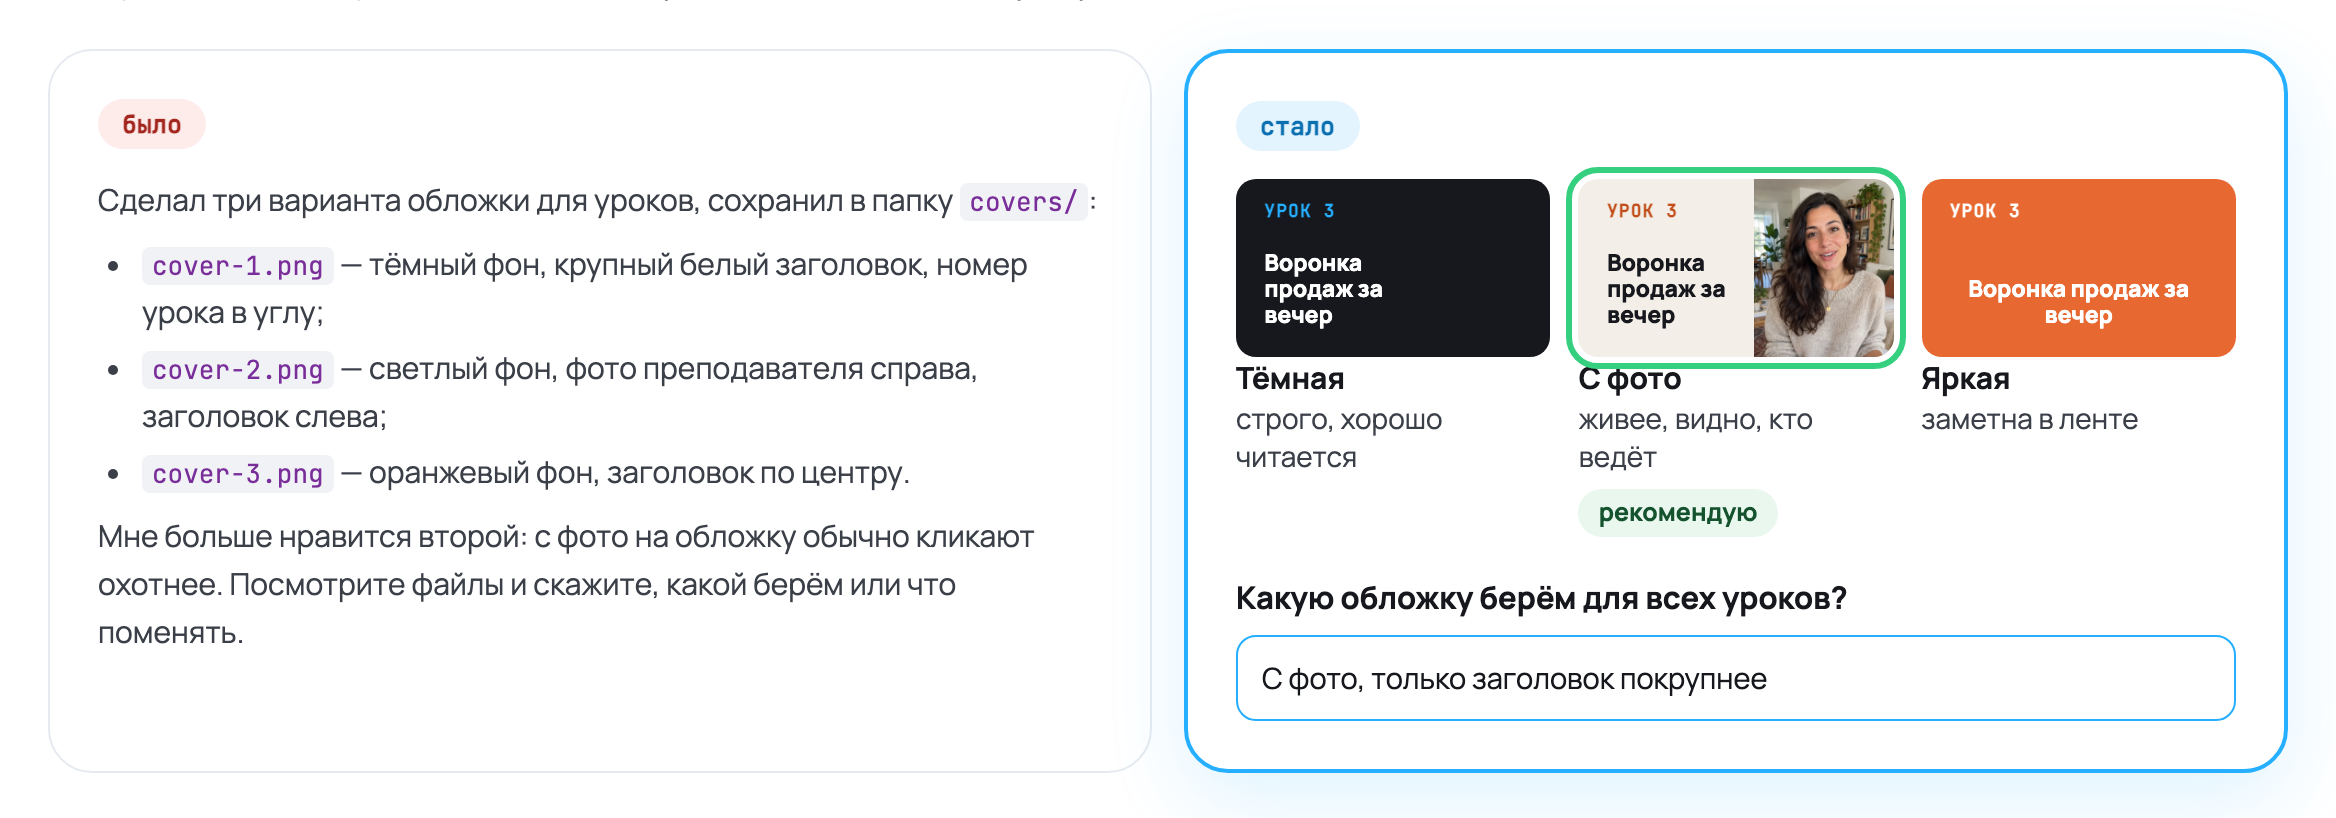
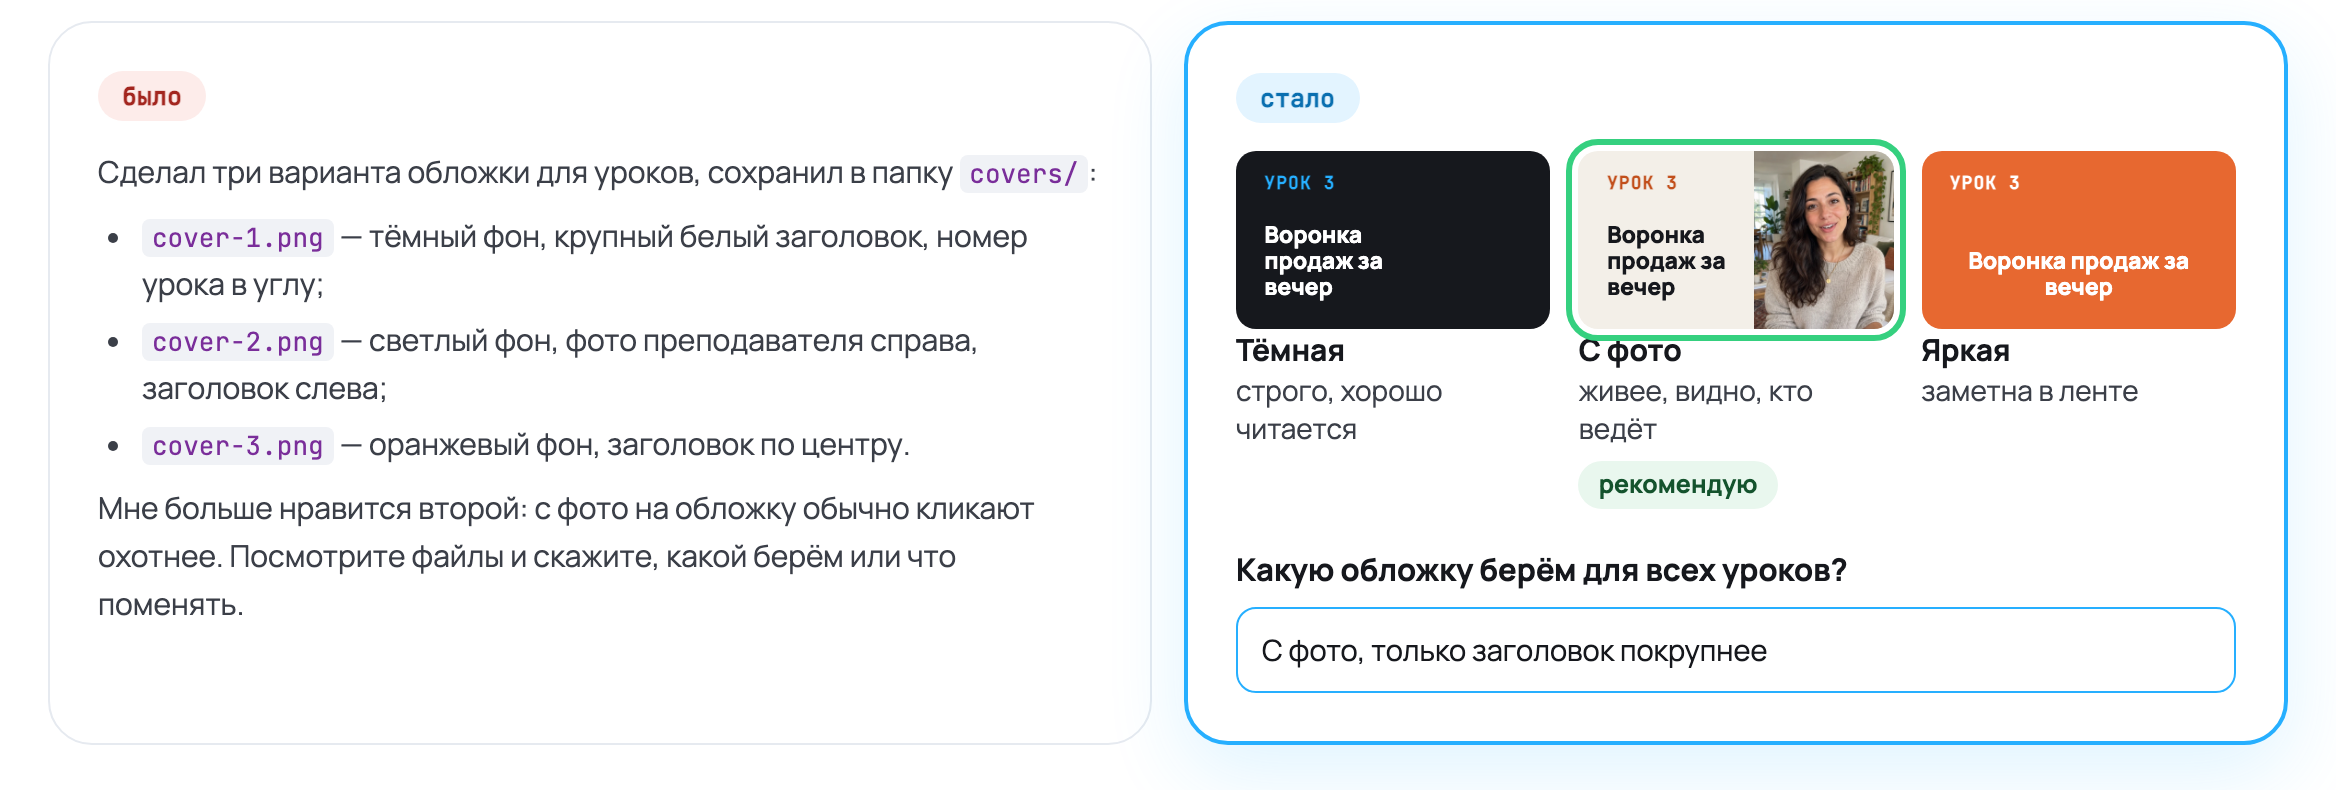
README: English screenshots for the English version
Translate the landing's example mockups into English for README.md and trim
stray text strips from the image edges.

diff --git a/README.md b/README.md
@@ -9,12 +9,9 @@ will save you a lot of nerves.
 
 Author's Telegram channel — subscribe: [@molyanov_blog](https://t.me/+JeJiLYwo9E81NWJi)
 
-> The example images below are in Russian, as on the skill page. The skill itself writes the page
-> in your language.
-
 ## This is how an agent usually writes a plan
 
-![The agent posts a long plan of nested lists in chat, ending with "Your decision on items 1–3?"](docs/images/problem.png)
+![The agent posts a long plan of nested lists in chat, ending with "Your decision on items 1–3?"](docs/images/problem-en.png)
 
 A wall of nested lists that is hard to make sense of.
 
@@ -33,34 +30,34 @@ player.
 Not "webhook and grace period", but what changes for you and your users: how it works now, how it
 will work, and a real-life example.
 
-![Before: a technical plan about webhooks. After: "now" and "after" in plain words with an example](docs/images/plain-words.png)
+![Before: a technical plan about webhooks. After: "now" and "after" in plain words with an example](docs/images/plain-words-en.png)
 
 ### 2. Show, don't tell
 
 Whatever can be shown, the agent shows: a frame, a screenshot, options side by side. Zones are
 marked right on the real frame.
 
-![Before: subtitle position described in words. After: a frame with green and red zones](docs/images/show-not-tell.png)
+![Before: subtitle position described in words. After: a frame with green and red zones](docs/images/show-not-tell-en.png)
 
 ### 3. Everything in one place
 
 Not "file 1 is like this, file 2 is like that", but the picture, the description, and the question
 side by side.
 
-![Before: a list of cover files. After: three covers side by side with a recommendation and an answer field](docs/images/one-place.png)
+![Before: a list of cover files. After: three covers side by side with a recommendation and an answer field](docs/images/one-place-en.png)
 
 ### 4. Short and clear
 
 Not a wall of prompts and details, but the point in three lines. Details on request.
 
-![Before: the full instruction text and a test log. After: what changed for the user in three lines](docs/images/short.png)
+![Before: the full instruction text and a test log. After: what changed for the user in three lines](docs/images/short-en.png)
 
 ### 5. A comment on every proposal
 
 Not "which of these do we agree on?" at the end of a wall of text, but an answer field under each
 item.
 
-![Before: a list of decisions and one question at the end. After: each item with a recommendation and its own answer field](docs/images/comments.png)
+![Before: a list of decisions and one question at the end. After: each item with a recommendation and its own answer field](docs/images/comments-en.png)
 
 ## How to use it
 
